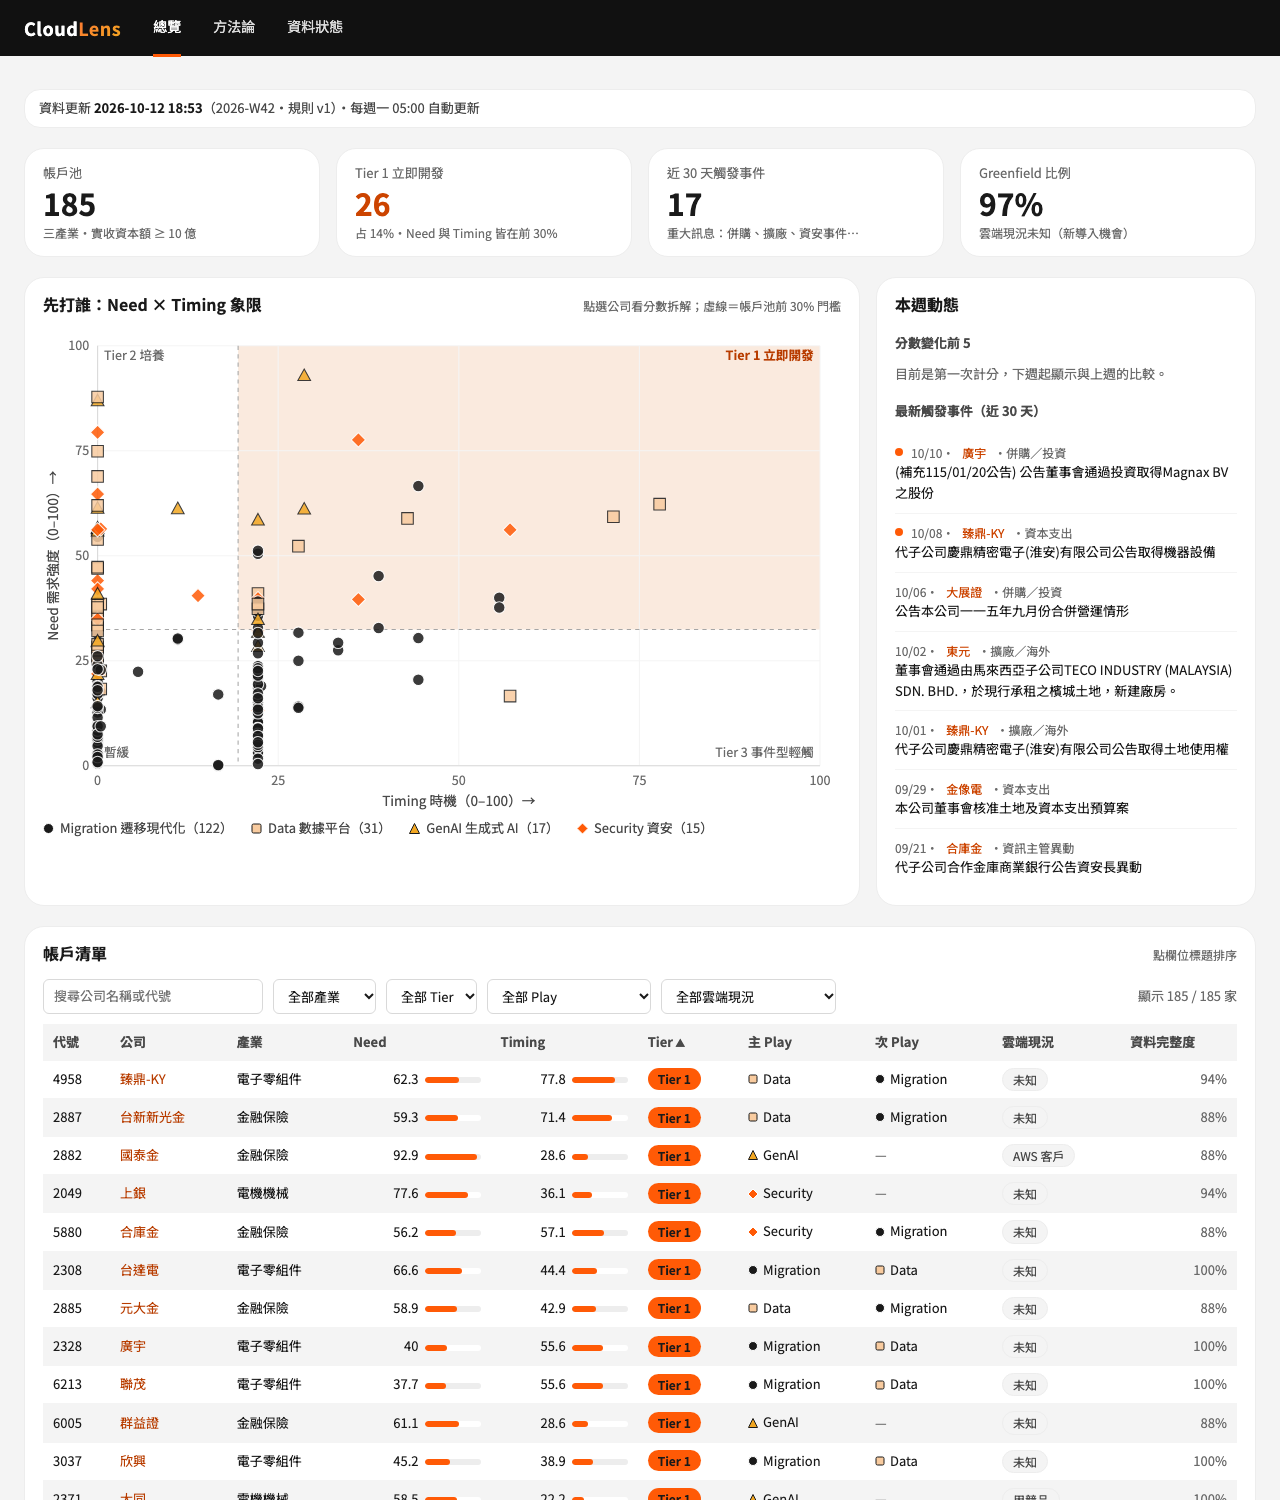
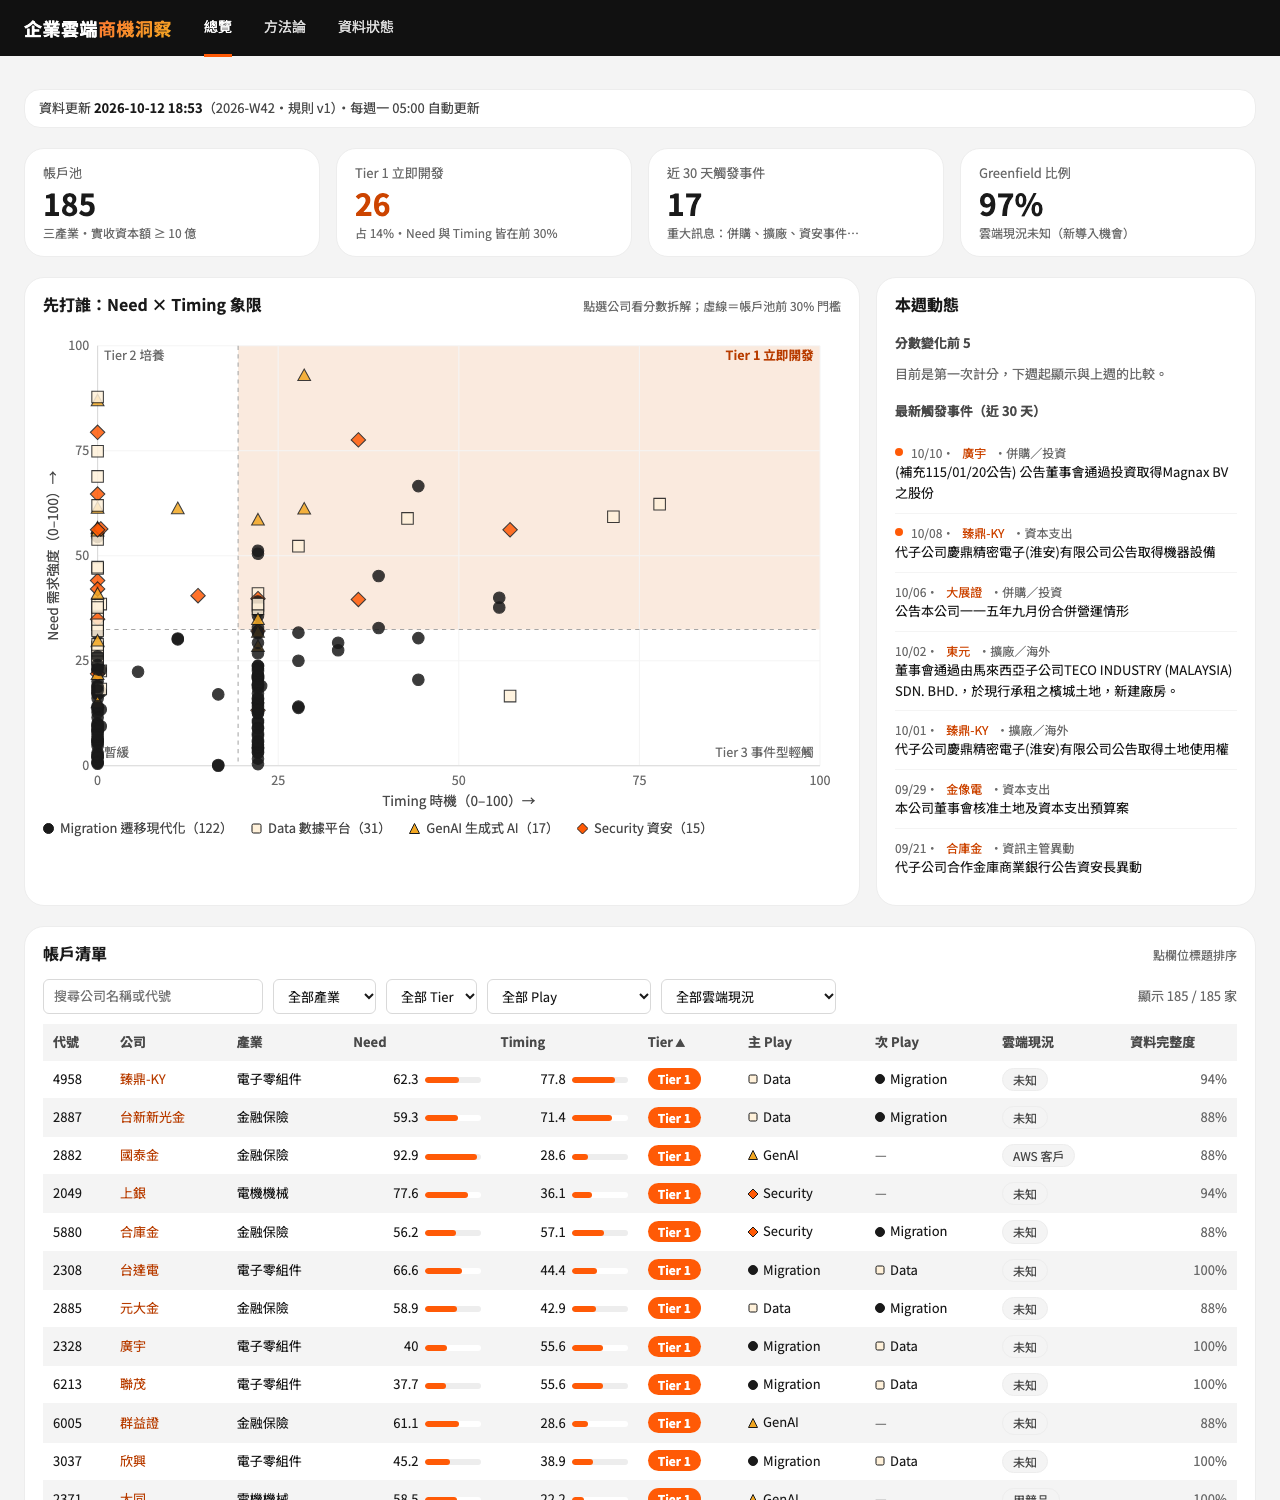
UI v3 調整：Data 改奶油色、橘底白字、Play 標記統一外框、中文正式名稱「企業雲端商機洞察平台」
- Lighthouse 無障礙：總覽／帳戶 96（橘底白字 3.1:1）、方法論／資料狀態 100
- 告警信名稱同步更新

diff --git a/web/css/app.css b/web/css/app.css
@@ -92,7 +92,7 @@ tbody tr:nth-child(even) .bar { background: var(--white); }
 /* 標章 */
 .badge { display: inline-block; font-size: 12px; padding: 1px 10px; border-radius: var(--radius-pill); line-height: 1.6; white-space: nowrap; }
 .tier-1, .tier-2, .tier-3, .tier-hold { color: var(--ink-900); font-weight: 700; border-radius: var(--radius-pill); }
-.tier-1 { background: var(--tier-1); }
+.tier-1 { background: var(--tier-1); color: var(--white); } /* 白字在 #FF5A06 上 3.1:1（Verna 堅持白字）；Tier 2／3 底色太淺，白字不可讀，維持黑字 */
 .tier-2 { background: var(--tier-2); }
 .tier-3 { background: var(--tier-3); }
 .tier-hold { background: var(--tier-hold); }
@@ -153,7 +153,7 @@ footer { color: var(--ink-500); font-size: 12px; text-align: center; padding: 24
 /* Copilot（奶油色面板＝AI 產生；v3 第 5.3 節） */
 .cp-head { display: flex; justify-content: space-between; align-items: center; margin-bottom: 12px; }
 .cp-mode { font-size: 12px; display: flex; gap: 8px; align-items: center; }
-.copilot .tag-live { background: var(--orange-600); color: var(--ink-900); font-weight: 700; }
+.copilot .tag-live { background: var(--orange-600); color: var(--white); font-weight: 700; }
 .linklike { all: unset; color: var(--orange-800); cursor: pointer; font-size: 12px; text-decoration: underline; }
 .linklike:focus-visible { outline: 3px solid var(--focus); }
 .cp-login { display: flex; gap: 6px; margin-bottom: 10px; }
@@ -163,14 +163,14 @@ footer { color: var(--ink-500); font-size: 12px; text-align: center; padding: 24
 .cp-ask { margin: 8px 0; }
 .cp-ask textarea { width: 100%; resize: vertical; margin-bottom: 6px; }
 .btn-primary { font: inherit; font-size: 13px; font-weight: 700; background: var(--orange-700); color: var(--white); border: 0; border-radius: var(--radius-pill); padding: 6px 16px; cursor: pointer; }
-.btn-primary:hover { background: var(--orange-600); color: var(--ink-900); }
+.btn-primary:hover { background: var(--orange-600); color: var(--white); }
 .btn-dark { font: inherit; font-size: 13px; font-weight: 700; background: var(--ink-950); color: var(--white); border: 0; border-radius: var(--radius-pill); padding: 6px 16px; cursor: pointer; }
 .btn-secondary { font: inherit; font-size: 12px; background: var(--white); color: var(--ink-900); border: 1px solid var(--gray-200); border-radius: var(--radius-pill); padding: 4px 12px; cursor: pointer; margin-top: 8px; }
 .btn-secondary:hover { background: var(--gray-100); }
 .cp-btns { display: flex; flex-wrap: wrap; gap: 6px; }
 .cp-btn, .cp-lang button { font: inherit; font-size: 12px; background: var(--white); color: var(--ink-900); border: 1px solid var(--gray-200); border-radius: var(--radius-pill); padding: 3px 12px; cursor: pointer; }
 .cp-btn:hover, .cp-lang button:hover { border-color: var(--orange-600); }
-.cp-btn[aria-pressed="true"], .cp-lang button[aria-pressed="true"] { background: var(--orange-600); color: var(--ink-900); border-color: var(--orange-600); font-weight: 700; }
+.cp-btn[aria-pressed="true"], .cp-lang button[aria-pressed="true"] { background: var(--orange-600); color: var(--white); border-color: var(--orange-600); font-weight: 700; }
 .cp-lang { display: flex; gap: 6px; margin-top: 8px; }
 .cp-out { margin-top: 14px; font-size: 13px; min-height: 40px; color: var(--ink-900); background: var(--white); border-radius: var(--radius-sm); padding: 14px 16px; }
 .cp-out h3.cp-h { font-size: 13px; margin: 12px 0 2px; color: var(--orange-800); }

diff --git a/web/account.html b/web/account.html
@@ -3,18 +3,18 @@
 <head>
 <meta charset="utf-8">
 <meta name="viewport" content="width=device-width, initial-scale=1">
-<title>CloudLens 帳戶頁</title>
+<title>帳戶｜企業雲端商機洞察平台</title>
 <meta name="description" content="帳戶分數、訊號證據、營收動能與 Copilot">
 <link rel="preconnect" href="https://fonts.googleapis.com">
 <link rel="preconnect" href="https://fonts.gstatic.com" crossorigin>
 <link href="https://fonts.googleapis.com/css2?family=Noto+Sans+TC:wght@400;700&display=swap" rel="stylesheet">
-<link rel="stylesheet" href="css/tokens.css?v=20261013a">
-<link rel="stylesheet" href="css/app.css?v=20261013a">
+<link rel="stylesheet" href="css/tokens.css?v=20261013b">
+<link rel="stylesheet" href="css/app.css?v=20261013b">
 </head>
 <body>
 <nav class="nav" aria-label="主要導覽">
   <div class="nav-inner">
-    <span class="brand">Cloud<span>Lens</span></span>
+    <span class="brand">企業雲端<span>商機洞察</span></span>
     <a href="index.html">總覽</a>
     <a href="methodology.html">方法論</a>
     <a href="status.html">資料狀態</a>
@@ -68,10 +68,10 @@
 </main>
 <footer>資料來源：臺灣證券交易所、證券櫃檯買賣中心、公開資訊觀測站、Google News。不蒐集個人姓名或聯絡方式。</footer>
 
-<script src="js/api.js?v=20261013a"></script>
-<script src="js/charts.js?v=20261013a"></script>
-<script src="js/account-charts.js?v=20261013a"></script>
-<script src="js/copilot.js?v=20261013a"></script>
+<script src="js/api.js?v=20261013b"></script>
+<script src="js/charts.js?v=20261013b"></script>
+<script src="js/account-charts.js?v=20261013b"></script>
+<script src="js/copilot.js?v=20261013b"></script>
 <script>
 (async () => {
   const { LABELS, COMPONENTS, fmt, esc, tierBadge, ageDays } = CL;
@@ -83,7 +83,7 @@
   const s = c.score, sig = c.signals, docs = c.docs;
   const pool = d.pool || { median: {} };
   const fin = c.industry === '金融保險', otc = c.market === '上櫃';
-  document.title = `${c.name} ${c.code}｜CloudLens`;
+  document.title = `${c.name} ${c.code}｜企業雲端商機洞察平台`;
   const by = (type, cat) => sig.filter(x => x.type === type && (!cat || x.cat === cat));
   const rows = d.accounts.map(a => ({ code: a.code, name: a.name, industry: a.industry, need: Number(a.score.need) || 0, timing: Number(a.score.timing) || 0, play: a.score.play_primary }));
   const self = rows.find(r => r.code === code);

diff --git a/web/index.html b/web/index.html
@@ -3,18 +3,18 @@
 <head>
 <meta charset="utf-8">
 <meta name="viewport" content="width=device-width, initial-scale=1">
-<title>CloudLens 帳戶總覽</title>
-<meta name="description" content="以公開資料為台灣上市櫃企業評分並標出 AWS 切入劇本">
+<title>總覽｜企業雲端商機洞察平台</title>
+<meta name="description" content="企業雲端商機洞察平台：以公開資料為台灣上市櫃企業評分，標出 AWS 的切入劇本">
 <link rel="preconnect" href="https://fonts.googleapis.com">
 <link rel="preconnect" href="https://fonts.gstatic.com" crossorigin>
 <link href="https://fonts.googleapis.com/css2?family=Noto+Sans+TC:wght@400;700&display=swap" rel="stylesheet">
-<link rel="stylesheet" href="css/tokens.css?v=20261013a">
-<link rel="stylesheet" href="css/app.css?v=20261013a">
+<link rel="stylesheet" href="css/tokens.css?v=20261013b">
+<link rel="stylesheet" href="css/app.css?v=20261013b">
 </head>
 <body>
 <nav class="nav" aria-label="主要導覽">
   <div class="nav-inner">
-    <span class="brand">Cloud<span>Lens</span></span>
+    <span class="brand">企業雲端<span>商機洞察</span></span>
     <a href="index.html" aria-current="page">總覽</a>
     <a href="methodology.html">方法論</a>
     <a href="status.html">資料狀態</a>
@@ -75,8 +75,8 @@
 </main>
 <footer>資料來源：臺灣證券交易所、證券櫃檯買賣中心、公開資訊觀測站、Google News。不蒐集個人姓名或聯絡方式。</footer>
 
-<script src="js/api.js?v=20261013a"></script>
-<script src="js/charts.js?v=20261013a"></script>
+<script src="js/api.js?v=20261013b"></script>
+<script src="js/charts.js?v=20261013b"></script>
 <script>
 (async () => {
   const { LABELS, fmt, esc, tierBadge, playTag, shapeSvg, ageDays } = CL;

diff --git a/web/methodology.html b/web/methodology.html
@@ -3,13 +3,13 @@
 <head>
 <meta charset="utf-8">
 <meta name="viewport" content="width=device-width, initial-scale=1">
-<title>CloudLens 方法論</title>
-<meta name="description" content="CloudLens 的資料來源、評分規則、驗證結果與限制">
+<title>方法論｜企業雲端商機洞察平台</title>
+<meta name="description" content="企業雲端商機洞察平台的資料來源、評分規則、驗證結果與限制">
 <link rel="preconnect" href="https://fonts.googleapis.com">
 <link rel="preconnect" href="https://fonts.gstatic.com" crossorigin>
 <link href="https://fonts.googleapis.com/css2?family=Noto+Sans+TC:wght@400;700&display=swap" rel="stylesheet">
-<link rel="stylesheet" href="css/tokens.css?v=20261013a">
-<link rel="stylesheet" href="css/app.css?v=20261013a">
+<link rel="stylesheet" href="css/tokens.css?v=20261013b">
+<link rel="stylesheet" href="css/app.css?v=20261013b">
 <style>
   .hero { background: var(--gradient-brand); color: var(--ink-900); }
   .hero-inner { max-width: 1280px; margin: 0 auto; padding: 28px 24px; }
@@ -40,7 +40,7 @@
 <body>
 <nav class="nav" aria-label="主要導覽">
   <div class="nav-inner">
-    <span class="brand">Cloud<span>Lens</span></span>
+    <span class="brand">企業雲端<span>商機洞察</span></span>
     <a href="index.html">總覽</a>
     <a href="methodology.html" aria-current="page">方法論</a>
     <a href="status.html">資料狀態</a>
@@ -160,7 +160,7 @@
 </main>
 <footer>資料來源：臺灣證券交易所、證券櫃檯買賣中心、公開資訊觀測站、Google News。</footer>
 
-<script src="js/api.js?v=20261013a"></script>
+<script src="js/api.js?v=20261013b"></script>
 <script>
 (async () => {
   const { esc } = CL;

diff --git a/web/status.html b/web/status.html
@@ -3,13 +3,13 @@
 <head>
 <meta charset="utf-8">
 <meta name="viewport" content="width=device-width, initial-scale=1">
-<title>CloudLens 資料狀態</title>
+<title>資料狀態｜企業雲端商機洞察平台</title>
 <meta name="description" content="各資料來源最後成功時間、筆數與錯誤">
 <link rel="preconnect" href="https://fonts.googleapis.com">
 <link rel="preconnect" href="https://fonts.gstatic.com" crossorigin>
 <link href="https://fonts.googleapis.com/css2?family=Noto+Sans+TC:wght@400;700&display=swap" rel="stylesheet">
-<link rel="stylesheet" href="css/tokens.css?v=20261013a">
-<link rel="stylesheet" href="css/app.css?v=20261013a">
+<link rel="stylesheet" href="css/tokens.css?v=20261013b">
+<link rel="stylesheet" href="css/app.css?v=20261013b">
 <style>
   /* 成功／錯誤狀態色只在本頁使用（03 檔第 3 節第 7 條） */
   .st { display: inline-flex; align-items: center; gap: 4px; font-size: 12px; font-weight: 700; padding: 1px 8px; border-radius: 10px; }
@@ -27,7 +27,7 @@
 <body>
 <nav class="nav" aria-label="主要導覽">
   <div class="nav-inner">
-    <span class="brand">Cloud<span>Lens</span></span>
+    <span class="brand">企業雲端<span>商機洞察</span></span>
     <a href="index.html">總覽</a>
     <a href="methodology.html">方法論</a>
     <a href="status.html" aria-current="page">資料狀態</a>
@@ -65,7 +65,7 @@
 </main>
 <footer>排程失敗會自動寄送告警信；單一來源失敗不影響其他來源，計分會以「缺資料不算 0 分」處理。</footer>
 
-<script src="js/api.js?v=20261013a"></script>
+<script src="js/api.js?v=20261013b"></script>
 <script>
 (async () => {
   const { esc } = CL;

diff --git a/web/js/account-charts.js b/web/js/account-charts.js
@@ -227,7 +227,7 @@ const AC = (() => {
 
   // ---------- E Play 組成 ----------
   /** 段內文字顏色：深色段用白字、亮橘段用黑字；對比不足 4.5:1 的段（GenAI）把標籤放到長條下方 */
-  const LABEL_INK = { Migration: 'var(--white)', Security: 'var(--ink-900)', Data: 'var(--ink-900)', GenAI: 'var(--ink-900)' };
+  const LABEL_INK = { Migration: 'var(--white)', Security: 'var(--white)', Data: 'var(--ink-900)', GenAI: 'var(--ink-900)' };
   function playStack(host, { scores }) {
     host.innerHTML = '';
     const total = Object.values(scores).reduce((a, b) => a + b, 0);
@@ -237,7 +237,7 @@ const AC = (() => {
     const p1 = order[0];
     const bar = order.map(p => {
       const w = share(p), inside = LABEL_INK[p] && w >= 9;
-      return `<div class="seg" style="width:${w}%;background:${CL.PLAY_COLOR[p]};box-shadow:inset 0 0 0 1px ${CL.PLAY_STROKE[p] === 'var(--white)' ? 'transparent' : 'var(--ink-900)'};color:${inside ? LABEL_INK[p] : 'transparent'}"
+      return `<div class="seg" style="width:${w}%;background:${CL.PLAY_COLOR[p]};box-shadow:inset 0 0 0 1px var(--ink-900);color:${inside ? LABEL_INK[p] : 'transparent'}"
         data-tip="<b>${p}</b>${Math.round(w)}%（分數 ${Math.round(scores[p])}）">${inside ? Math.round(w) + '%' : ''}</div>`;
     }).join('');
     const mark = Math.min(100, share(p1) * 1.5);

diff --git a/web/css/tokens.css b/web/css/tokens.css
@@ -9,6 +9,7 @@
   --orange-400: #FD9832;   /* Tier 2、熱度圖第 3 階、黑卡上的關鍵數字 */
   --amber-400: #F2A722;    /* 琥珀：GenAI、漸層終點 */
   --orange-200: #F8CB9F;   /* Tier 3、熱度圖第 2 階、淡色系列 */
+  --cream-100: #FFF1DA;    /* Data（Play）：比 orange-200 更淡，與琥珀拉開一般視覺分辨度；必須加外框 */
   --orange-50: #FAEADE;    /* 奶油底：Copilot（＝AI 產生）、hover／選取列、提示框 */
 
   /* 衍生色（為文字對比補的，不得省略） */
@@ -47,11 +48,11 @@
   --tier-3: var(--orange-200);
   --tier-hold: var(--gray-300);
 
-  /* Play（第 1.3 節）：四色明度差距大，再加形狀；亮色加 1px ink-900 外框 */
+  /* Play（第 1.3 節）：四色明度差距大，再加形狀；四色一律加 1px ink-900 外框（統一） */
   --play-migration: var(--ink-900);
   --play-security: var(--orange-600);
   --play-genai: var(--amber-400);
-  --play-data: var(--orange-200);
+  --play-data: var(--cream-100);
   --play-none: var(--gray-400);
 
   --font: "Noto Sans TC", system-ui, -apple-system, "PingFang TC", "Microsoft JhengHei", sans-serif;

diff --git a/web/phase0.html b/web/phase0.html
@@ -3,8 +3,8 @@
 <head>
 <meta charset="utf-8">
 <meta name="viewport" content="width=device-width, initial-scale=1">
-<title>CloudLens Phase 0 連線測試</title>
-<link rel="stylesheet" href="css/tokens.css?v=20261013a">
+<title>連線測試｜企業雲端商機洞察平台</title>
+<link rel="stylesheet" href="css/tokens.css?v=20261013b">
 <style>
   :root { --brand: var(--orange-500); --nav: var(--ink-900); --text: var(--ink-900); --muted: var(--ink-500); --bg: var(--white); --line: var(--gray-200); }
   body { margin: 0; font-family: "Noto Sans TC", system-ui, sans-serif; color: var(--text); background: var(--bg); }
@@ -20,7 +20,7 @@
 </style>
 </head>
 <body>
-<header>CloudLens · Phase 0 跨網域測試</header>
+<header>企業雲端商機洞察平台 · Phase 0 跨網域測試</header>
 <main>
   <label for="url">GAS Web App URL（…/exec）</label>
   <input id="url" placeholder="https://script.google.com/macros/s/XXXX/exec">

diff --git a/web/js/api.js b/web/js/api.js
@@ -54,8 +54,8 @@ const CL = (() => {
     }
   };
   const PLAY_COLOR = { Migration: 'var(--play-migration)', Data: 'var(--play-data)', GenAI: 'var(--play-genai)', Security: 'var(--play-security)' };
-  // 亮色（琥珀、淺杏）對白底不足 3:1，依 v3 第 1.3 節加 1px ink-900 外框；深色用白色細框與底色分開
-  const PLAY_STROKE = { Migration: 'var(--white)', Security: 'var(--white)', GenAI: 'var(--ink-900)', Data: 'var(--ink-900)' };
+  // 四種 Play 標記一律加 1px ink-900 外框（Verna 2026-10-13：統一有框線；亮色對白底不足 3:1 也靠它補足）
+  const PLAY_STROKE = { Migration: 'var(--ink-900)', Security: 'var(--ink-900)', GenAI: 'var(--ink-900)', Data: 'var(--ink-900)' };
   const PLAY_SHAPE = { Migration: 'circle', Data: 'square', GenAI: 'triangle', Security: 'diamond' };
   const COMPONENTS = [
     { key: 'n1', axis: 'need', name: 'N1 規模', max: 25 },

diff --git a/docs/00_決策紀錄.md b/docs/00_決策紀錄.md
@@ -42,6 +42,7 @@
 | D31 | 配色 v2（05 檔取代 03 檔第 2–5 節） | 橘為主、黑灰白基底、紫＝AI。為符合 05 檔自身的對比規則：Tier 2 標章字與表格內連結改 orange-800（orange-700 在 orange-100／gray-50 上僅 3.5–4.2:1）；Play 色照 05 檔（Data 的 indigo-700 未過調色盤明度帶檢查，以形狀做第二編碼） | 2026-10-12 |
 | D32 | 配色 v2.1（Verna 回饋） | 橘色提高飽和度（#9A3412／#C2410C／#EA580C／#F97316…）；橘底一律配白字（orange-700，5.2:1）；Copilot 改黑底白字、橘色點綴；紫色只留在圖表 Data／GenAI 系列，不做大面積底色 | 2026-10-12 |
 | D33 | 配色 v3（06 檔取代 03／05 所有視覺規範） | 橘色家族＋黑灰白，移除靛紫；Copilot 改奶油色（＝AI 產生）。為符合 06 檔自身 ≥4.5:1 的對比底線補第二個衍生色 orange-800 #B83D00（v3 的衍生色 #CC4400 在 gray-100 上 4.3:1、在奶油色上 4.1:1）；Tier 標章維持 06 檔建議的黑字（白字在 #FF5A06 上僅 3.1:1）。Play 四色在調色盤驗證器的「明度帶」「一般視覺分辨（琥珀 vs 淺杏 ΔE 12.1 < 15）」未通過，靠外框＋形狀＋圖例補足（Verna 指定色碼，待決定是否微調） | 2026-10-13 |
+| D34 | 配色 v3 調整與中文名稱（Verna 2026-10-13） | ①Data 的淺杏 #F8CB9F 改奶油 #FFF1DA（一般視覺分辨度檢查由不通過轉為通過）；②橘底改白字：Tier 1 標章、Copilot 選取按鈕／即時模式標籤，白字在 #FF5A06 上僅 3.1:1（Lighthouse 無障礙 100→96，仍 ≥90）；Tier 2／3 底色太淺，白字不可讀維持黑字；③四種 Play 標記統一加 1px ink-900 外框；④產品中文正式名稱「企業雲端商機洞察平台」（導覽字標、頁面標題、告警信），不再使用 CloudLens 作為對外名稱 | 2026-10-13 |
 
 ## 待確認
 - ✅ 技術風險驗證（Spike）：GAS（海外）可連所有政府來源（2026-10-12）

diff --git a/README.md b/README.md
@@ -1,4 +1,4 @@
-# CloudLens
+# 企業雲端商機洞察平台（CloudLens）
 
 以公開資料為台灣上市櫃企業打分數並標出切入劇本（Play），協助 AWS 業務決定「先打誰、拿什麼去談」，再用 AI 產出帳戶速覽與破冰信草稿。
 
